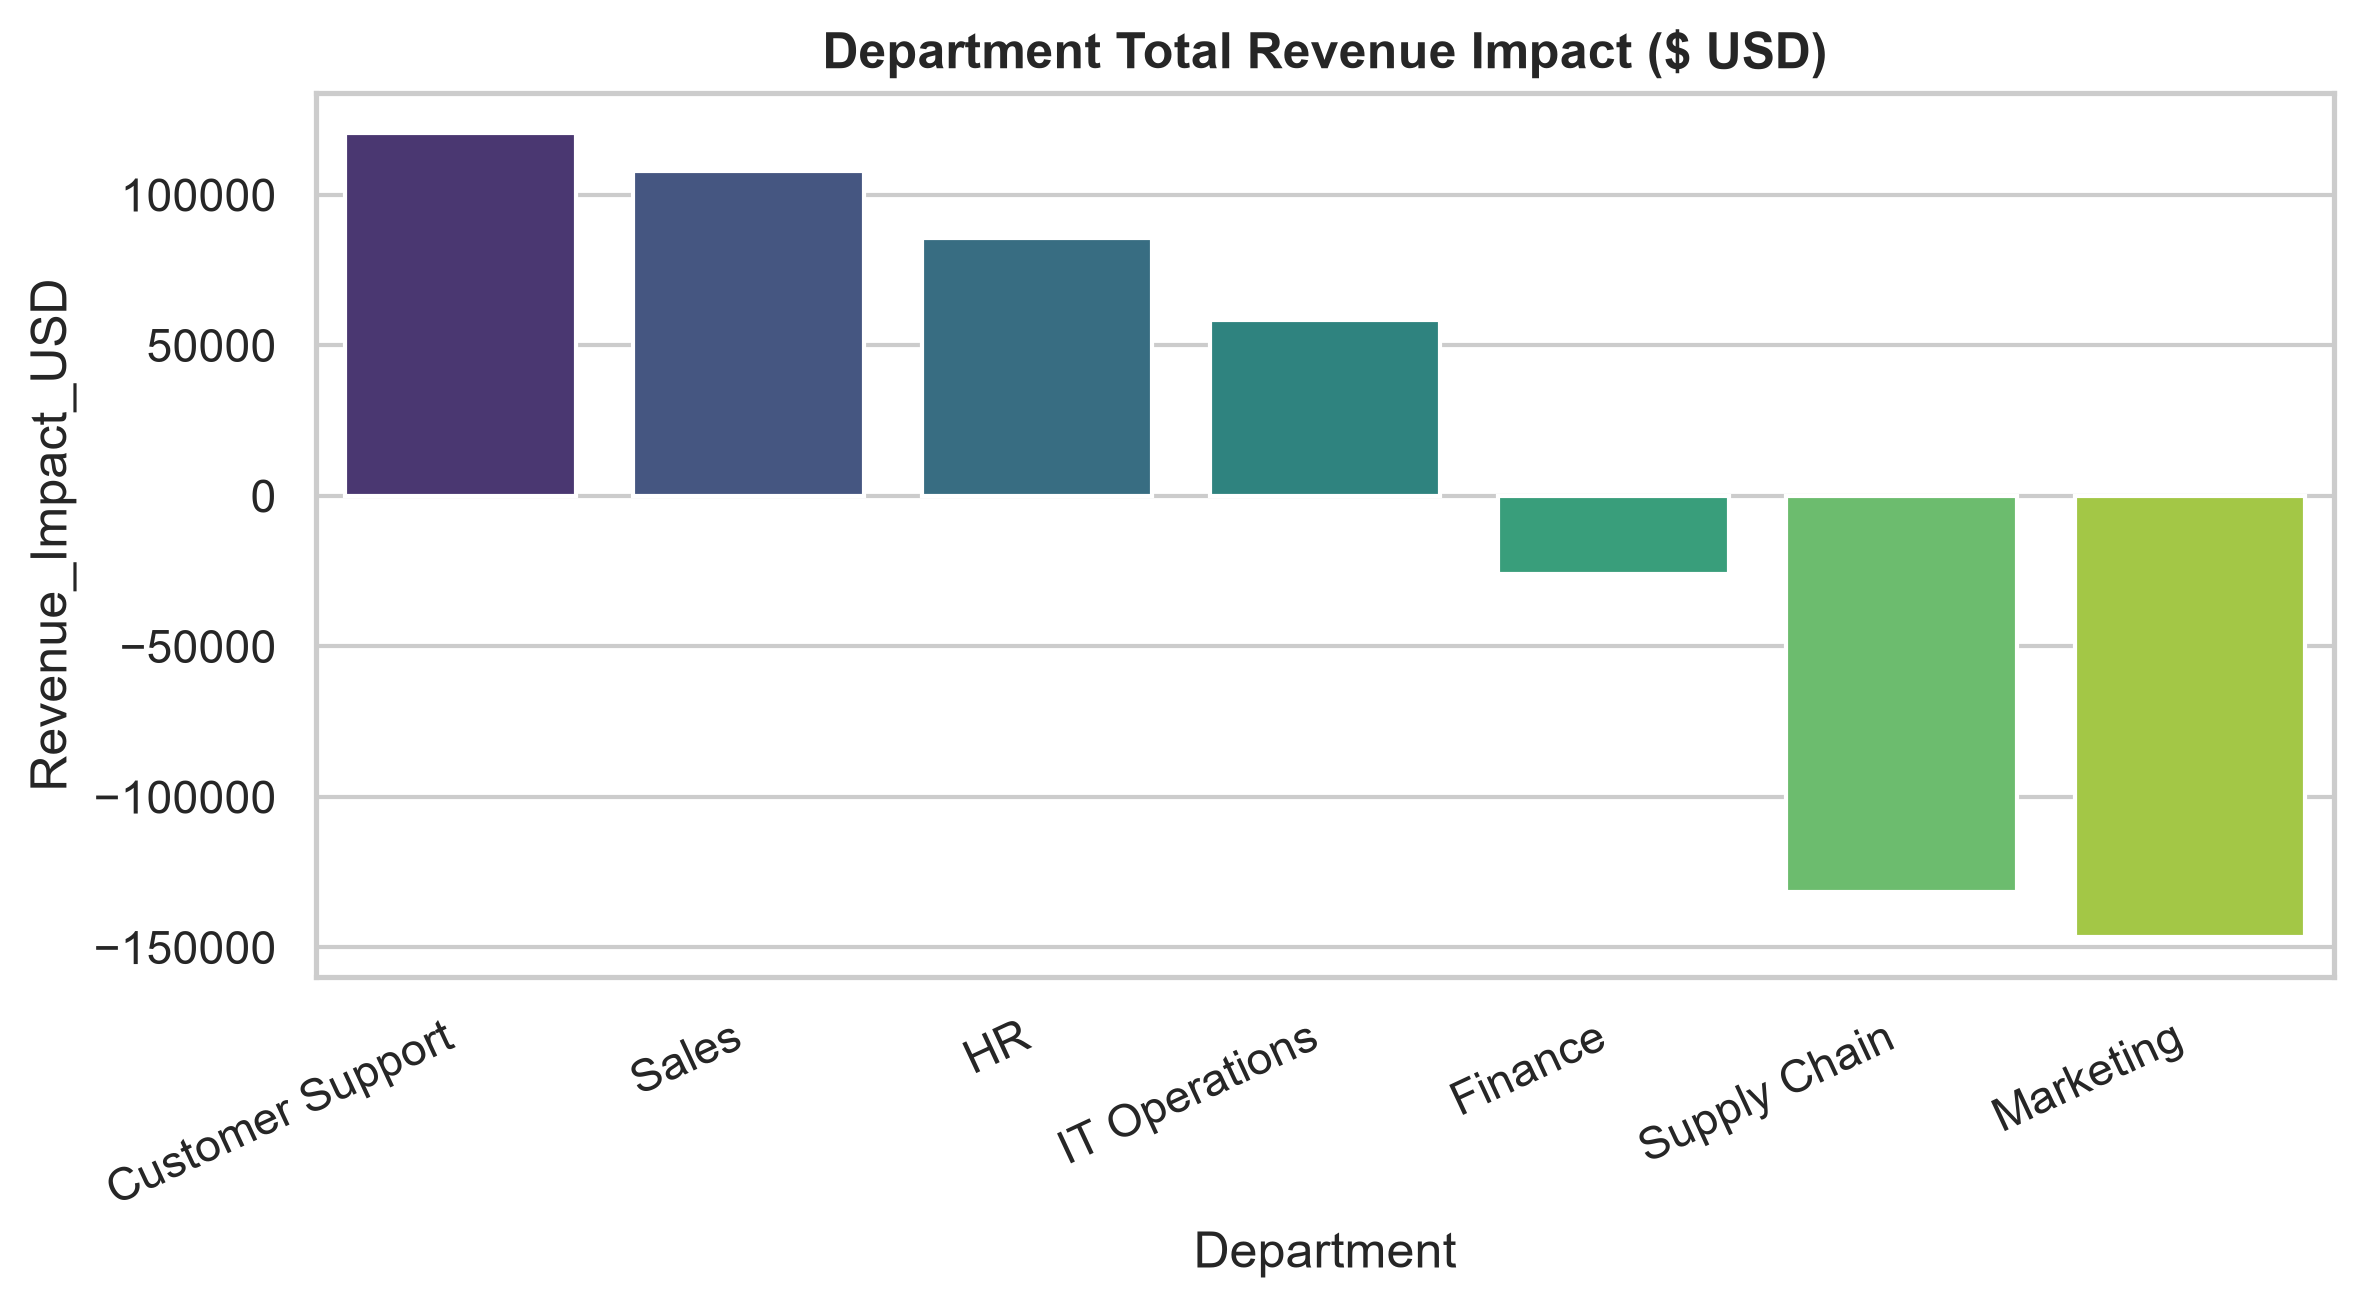
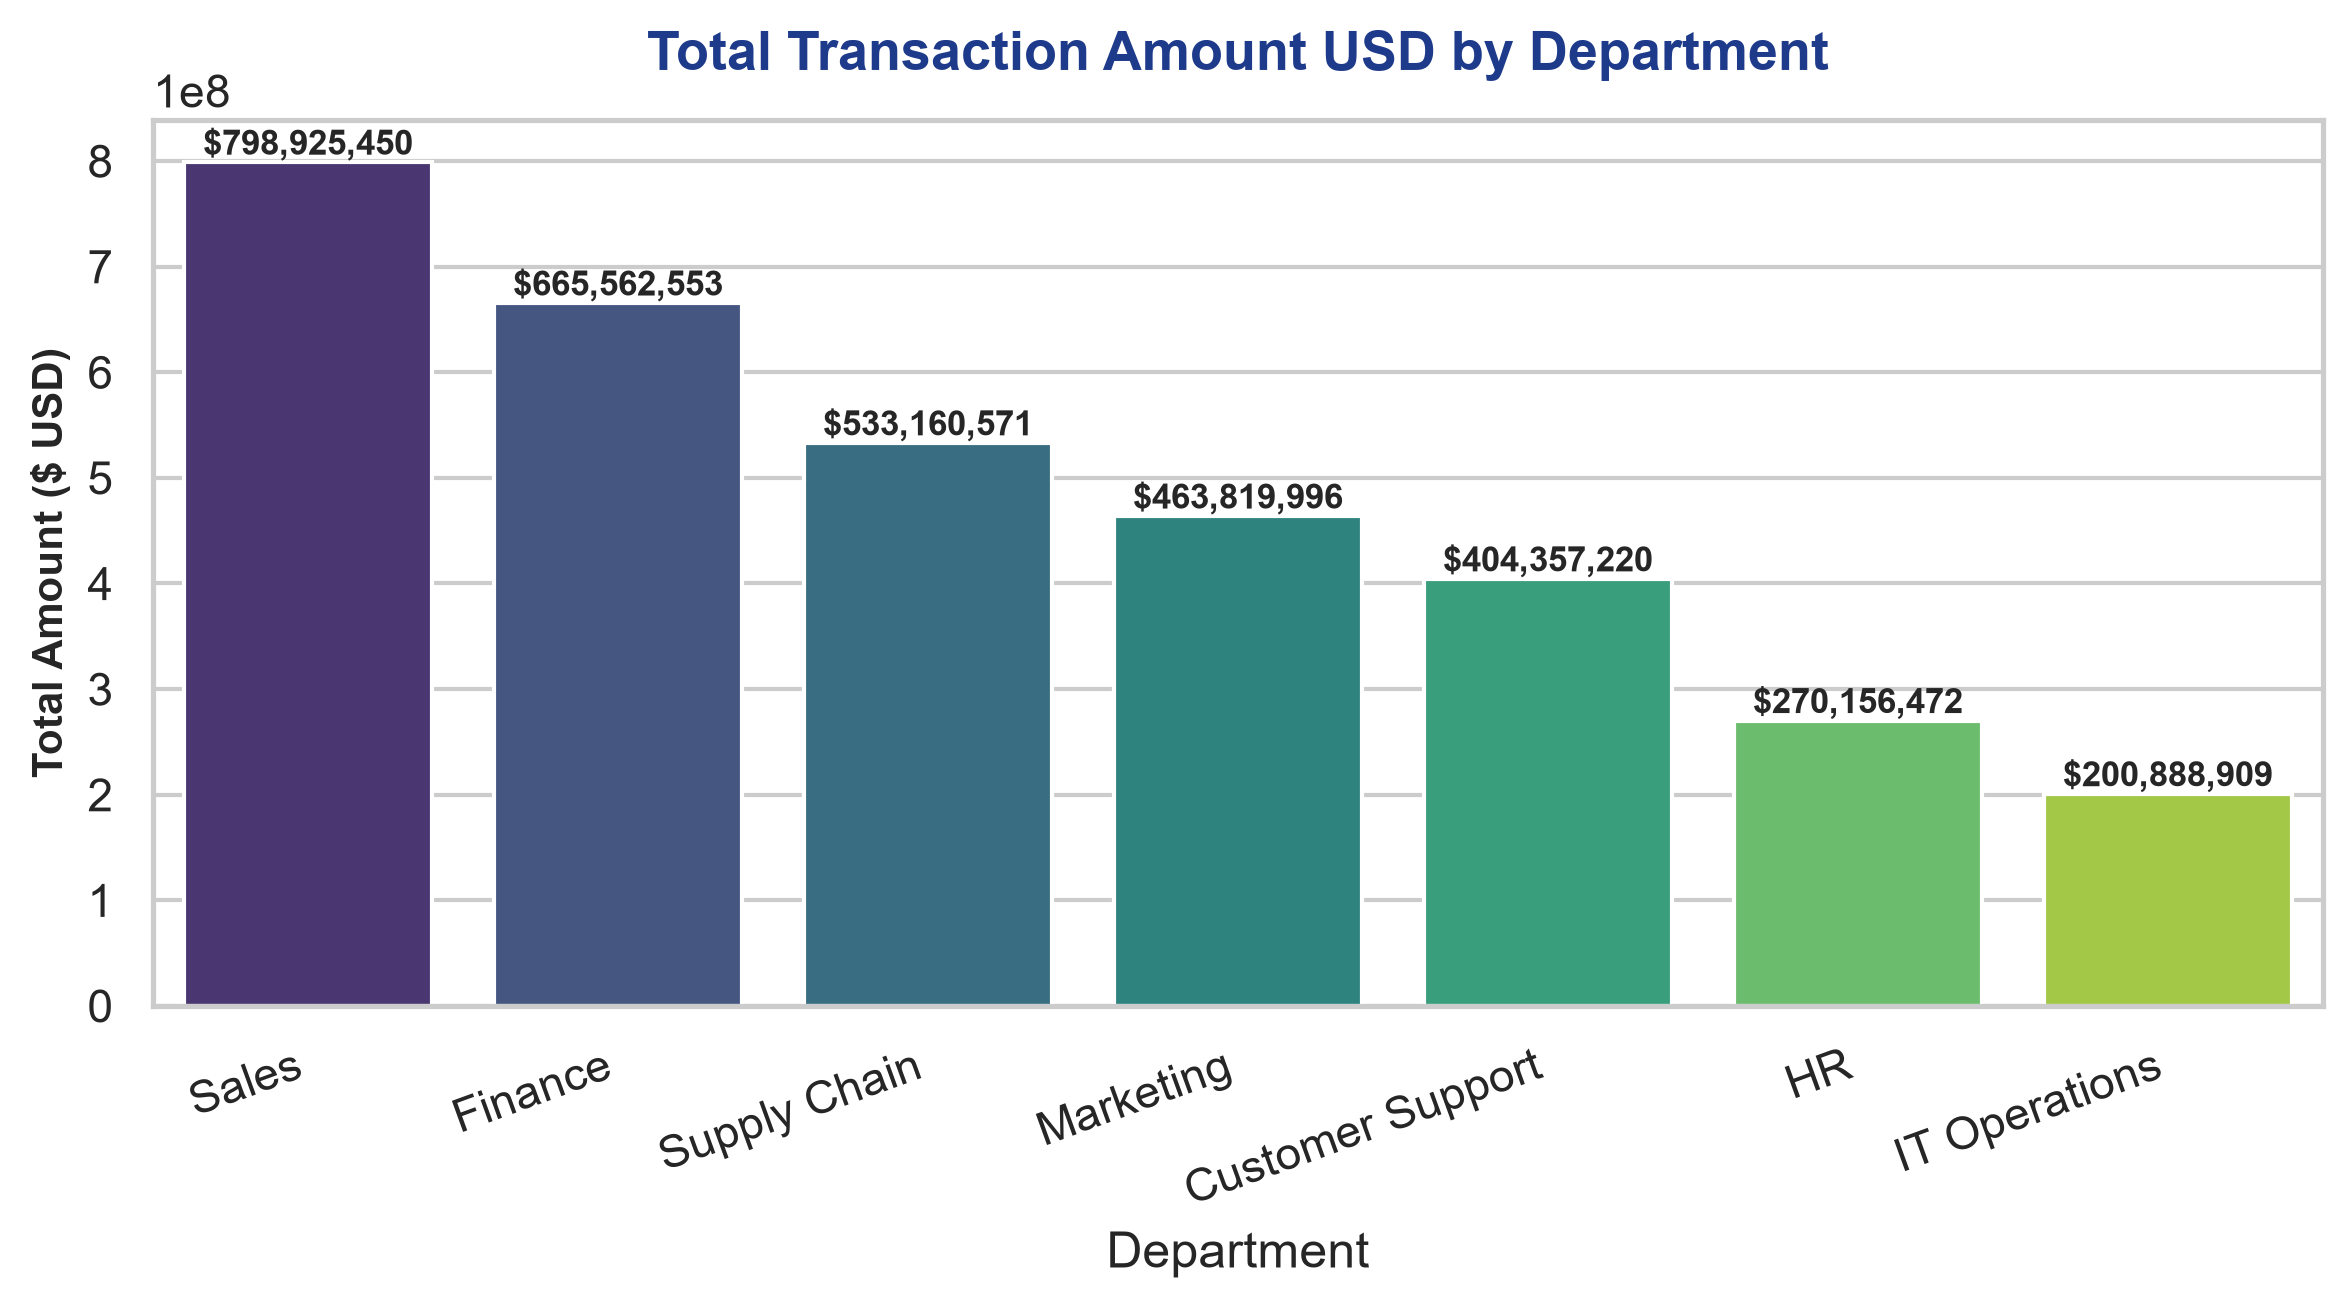
Fix UI binding defect: clean stale charts and isolate st.image rendering strictly to visualization queries

diff --git a/agents/orchestrator_agent.py b/agents/orchestrator_agent.py
@@ -54,6 +54,16 @@ Provide dynamic, context-aware responses tailored strictly to the user's input i
     sub_agents=[semantic_agent, analytics_agent, visualization_agent, consultant_agent]
 )
 
+def clean_stale_charts():
+    """Removes leftover chart image files before executing new queries."""
+    for chart_name in ["output_chart.png", "dashboard_chart.png"]:
+        chart_file = os.path.join(BASE_DIR, chart_name)
+        if os.path.exists(chart_file):
+            try:
+                os.remove(chart_file)
+            except Exception:
+                pass
+
 def generate_dynamic_fallback(query: str) -> Tuple[str, str]:
     """
     Decoupled dynamic engine. Dynamically analyzes the user query against the enterprise dataset
@@ -76,18 +86,17 @@ def generate_dynamic_fallback(query: str) -> Tuple[str, str]:
             return f"[Predictive Intelligence Output]\n{ml_res}", None
 
         # 3. Visualization Intent Check
-        if any(w in query_lower for w in ['chart', 'plot', 'graph', 'visual', 'trend', 'distribution', 'bar', 'histogram']):
+        if any(w in query_lower for w in ['chart', 'plot', 'graph', 'visualize', 'distribution', 'bar chart', 'histogram']):
             plot_res = generate_plot(query)
             out_p = os.path.join(BASE_DIR, "output_chart.png")
-            dash_p = os.path.join(BASE_DIR, "dashboard_chart.png")
-            chart_file = out_p if os.path.exists(out_p) else (dash_p if os.path.exists(dash_p) else None)
+            chart_file = out_p if os.path.exists(out_p) else None
             return plot_res, chart_file
 
         # 4. Executive Summary / Strategy Intent Check
         if any(w in query_lower for w in ['summary', 'overview', 'strategy', 'recommend', 'insight', 'consultant']):
             return generate_executive_strategy(query), None
 
-        # 5. Dynamic Analytics Intent
+        # 5. Dynamic Analytics Intent (Calculations, Numbers, KPIs)
         return execute_pandas_analysis(query), None
 
     except Exception as e:
@@ -113,6 +122,7 @@ class ADKOrchestratorPipeline:
         """
         Executes query with mode-based agent isolation, dynamic dataset analysis, and semantic guardrails.
         """
+        clean_stale_charts()
         mode_lower = str(workflow_mode).lower().strip()
         
         # 1. Direct Semantic Validation Agent Mode
@@ -138,11 +148,10 @@ class ADKOrchestratorPipeline:
             return df_ans, None
 
         # 4. Direct Visualization Mode
-        if "visualization" in mode_lower or "viz" in mode_lower or any(w in query.lower() for w in ['chart', 'plot', 'graph', 'visual', 'bar']):
+        if "visualization" in mode_lower or "viz" in mode_lower:
             plot_res = generate_plot(query)
             out_p = os.path.join(BASE_DIR, "output_chart.png")
-            dash_p = os.path.join(BASE_DIR, "dashboard_chart.png")
-            chart_file = out_p if os.path.exists(out_p) else (dash_p if os.path.exists(dash_p) else None)
+            chart_file = out_p if os.path.exists(out_p) else None
             return plot_res, chart_file
 
         # 5. Direct Predictive Risk Mode
@@ -162,8 +171,6 @@ class ADKOrchestratorPipeline:
             os.environ["GOOGLE_API_KEY"] = api_key
 
         out_p = os.path.join(BASE_DIR, "output_chart.png")
-        dash_p = os.path.join(BASE_DIR, "dashboard_chart.png")
-
         start_time = time.time()
         quota_warning = key_manager.record_request_and_check_warning()
         
@@ -207,9 +214,7 @@ class ADKOrchestratorPipeline:
             return final_text, new_chart
 
         final_text = "\n\n".join(response_texts)
-        new_chart = out_p if os.path.exists(out_p) and os.path.getmtime(out_p) >= start_time - 1 else (
-            dash_p if os.path.exists(dash_p) and os.path.getmtime(dash_p) >= start_time - 1 else None
-        )
+        new_chart = out_p if os.path.exists(out_p) and os.path.getmtime(out_p) >= start_time - 1 else None
 
         return final_text, new_chart
 

diff --git a/coordinator.py b/coordinator.py
@@ -54,6 +54,16 @@ Provide dynamic, context-aware responses tailored strictly to the user's input i
     sub_agents=[semantic_agent, analytics_agent, visualization_agent, consultant_agent]
 )
 
+def clean_stale_charts():
+    """Removes leftover chart image files before executing new queries."""
+    for chart_name in ["output_chart.png", "dashboard_chart.png"]:
+        chart_file = os.path.join(BASE_DIR, chart_name)
+        if os.path.exists(chart_file):
+            try:
+                os.remove(chart_file)
+            except Exception:
+                pass
+
 def generate_dynamic_fallback(query: str) -> Tuple[str, str]:
     """
     Decoupled dynamic engine. Dynamically analyzes the user query against the enterprise dataset
@@ -76,18 +86,17 @@ def generate_dynamic_fallback(query: str) -> Tuple[str, str]:
             return f"[Predictive Intelligence Output]\n{ml_res}", None
 
         # 3. Visualization Intent Check
-        if any(w in query_lower for w in ['chart', 'plot', 'graph', 'visual', 'trend', 'distribution', 'bar', 'histogram']):
+        if any(w in query_lower for w in ['chart', 'plot', 'graph', 'visualize', 'distribution', 'bar chart', 'histogram']):
             plot_res = generate_plot(query)
             out_p = os.path.join(BASE_DIR, "output_chart.png")
-            dash_p = os.path.join(BASE_DIR, "dashboard_chart.png")
-            chart_file = out_p if os.path.exists(out_p) else (dash_p if os.path.exists(dash_p) else None)
+            chart_file = out_p if os.path.exists(out_p) else None
             return plot_res, chart_file
 
         # 4. Executive Summary / Strategy Intent Check
         if any(w in query_lower for w in ['summary', 'overview', 'strategy', 'recommend', 'insight', 'consultant']):
             return generate_executive_strategy(query), None
 
-        # 5. Dynamic Analytics Intent
+        # 5. Dynamic Analytics Intent (Calculations, Numbers, KPIs)
         return execute_pandas_analysis(query), None
 
     except Exception as e:
@@ -113,6 +122,7 @@ class ADKOrchestratorPipeline:
         """
         Executes query with mode-based agent isolation, dynamic dataset analysis, and semantic guardrails.
         """
+        clean_stale_charts()
         mode_lower = str(workflow_mode).lower().strip()
         
         # 1. Direct Semantic Validation Agent Mode
@@ -138,11 +148,10 @@ class ADKOrchestratorPipeline:
             return df_ans, None
 
         # 4. Direct Visualization Mode
-        if "visualization" in mode_lower or "viz" in mode_lower or any(w in query.lower() for w in ['chart', 'plot', 'graph', 'visual', 'bar']):
+        if "visualization" in mode_lower or "viz" in mode_lower:
             plot_res = generate_plot(query)
             out_p = os.path.join(BASE_DIR, "output_chart.png")
-            dash_p = os.path.join(BASE_DIR, "dashboard_chart.png")
-            chart_file = out_p if os.path.exists(out_p) else (dash_p if os.path.exists(dash_p) else None)
+            chart_file = out_p if os.path.exists(out_p) else None
             return plot_res, chart_file
 
         # 5. Direct Predictive Risk Mode
@@ -162,8 +171,6 @@ class ADKOrchestratorPipeline:
             os.environ["GOOGLE_API_KEY"] = api_key
 
         out_p = os.path.join(BASE_DIR, "output_chart.png")
-        dash_p = os.path.join(BASE_DIR, "dashboard_chart.png")
-
         start_time = time.time()
         quota_warning = key_manager.record_request_and_check_warning()
         
@@ -207,9 +214,7 @@ class ADKOrchestratorPipeline:
             return final_text, new_chart
 
         final_text = "\n\n".join(response_texts)
-        new_chart = out_p if os.path.exists(out_p) and os.path.getmtime(out_p) >= start_time - 1 else (
-            dash_p if os.path.exists(dash_p) and os.path.getmtime(dash_p) >= start_time - 1 else None
-        )
+        new_chart = out_p if os.path.exists(out_p) and os.path.getmtime(out_p) >= start_time - 1 else None
 
         return final_text, new_chart
 

diff --git a/agents/data_agent.py b/agents/data_agent.py
@@ -2,42 +2,42 @@ import os
 import sys
 import pandas as pd
 
+# Automatically resolve paths for robustness
 sys.path.append(os.path.dirname(os.path.dirname(os.path.abspath(__file__))))
-try:
-    from utils.config import get_dataset_path
-except ImportError:
-    def get_dataset_path():
-        candidates = [
-            "data/cleaned_enterprise_data_final.csv",
-            "cleaned_enterprise_data.csv",
-            "data/cleaned_enterprise_data.csv"
-        ]
-        for c in candidates:
-            if os.path.exists(c):
-                return c
-        return "cleaned_enterprise_data.csv"
 
-def get_dataset_schema(file_path: str = "cleaned_enterprise_data.csv") -> str:
+def load_enterprise_data() -> pd.DataFrame:
     """
-    Pure Python deterministic tool (No AI Model).
-    Reads the CSV file via Pandas and returns column names, data types, and row count as a string.
+    Directly loads the cleaned enterprise CSV dataset into a Pandas DataFrame.
     """
+    candidates = [
+        "data/cleaned_enterprise_data_final.csv",
+        "cleaned_enterprise_data.csv",
+        "data/cleaned_enterprise_data.csv"
+    ]
+    
+    target_path = "cleaned_enterprise_data.csv"
+    for c in candidates:
+        if os.path.exists(c):
+            target_path = c
+            break
+            
     try:
-        target_path = file_path if os.path.exists(file_path) else get_dataset_path()
         df = pd.read_csv(target_path)
-        schema_info = f"--- ENTERPRISE DATASET SCHEMA ---\n"
-        schema_info += f"File Path: {os.path.basename(target_path)}\n"
-        schema_info += f"Total Records: {len(df):,} rows, {len(df.columns)} columns\n\n"
-        schema_info += "Columns & Data Types:\n"
-        for col, dtype in df.dtypes.items():
-            null_cnt = df[col].isnull().sum()
-            sample_val = str(df[col].dropna().iloc[0]) if not df[col].dropna().empty else "N/A"
-            if len(sample_val) > 35:
-                sample_val = sample_val[:32] + "..."
-            schema_info += f"- {col} ({dtype}) | Missing: {null_cnt} | Sample: {sample_val}\n"
-        return schema_info
+        return df
     except Exception as e:
-        return f"Error reading dataset schema: {str(e)}"
+        # Return an empty DataFrame or raise a clean error if loading fails
+        raise RuntimeError(f"Critical Error: Failed to load enterprise dataset from {target_path}. Details: {str(e)}")
+
+# Initialize the global dataframe instance for the data agent to use directly
+try:
+    enterprise_df = load_enterprise_data()
+    DATA_LOAD_STATUS = f"Success: Loaded {len(enterprise_df):,} rows and {len(enterprise_df.columns)} columns."
+except Exception as e:
+    enterprise_df = pd.DataFrame()
+    DATA_LOAD_STATUS = str(e)
 
 if __name__ == "__main__":
-    print(get_dataset_schema())
+    print(DATA_LOAD_STATUS)
+    if not enterprise_df.empty:
+        print("\nFirst 3 rows of direct dataset preview:")
+        print(enterprise_df.head(3))

diff --git a/app.py b/app.py
@@ -689,8 +689,6 @@ with chat_tab1:
             chart_path = msg.get("chart")
             if chart_path and os.path.exists(chart_path):
                 st.image(chart_path, caption="Generated Enterprise Visualization")
-            elif os.path.exists("output_chart.png") and any(k in msg.get("content", "").lower() for k in ["chart", "plot", "graph", "visual"]):
-                st.image("output_chart.png", caption="Generated Enterprise Visualization")
 
     user_query = st.chat_input("Ask an executive business question...")
     if suggested_q:
@@ -711,19 +709,14 @@ with chat_tab1:
                     
             st.markdown(ans_text)
             
-            if not new_chart:
-                if os.path.exists("output_chart.png"):
-                    new_chart = "output_chart.png"
-                elif os.path.exists("dashboard_chart.png"):
-                    new_chart = "dashboard_chart.png"
-                    
+            # Display image ONLY if a new chart was explicitly generated for this query
             if new_chart and os.path.exists(new_chart):
                 st.image(new_chart, caption="Generated Enterprise Visualization")
                 
             st.session_state.messages.append({
                 "role": "assistant",
                 "content": ans_text,
-                "chart": new_chart
+                "chart": new_chart if (new_chart and os.path.exists(new_chart)) else None
             })
 
 with chat_tab2:
